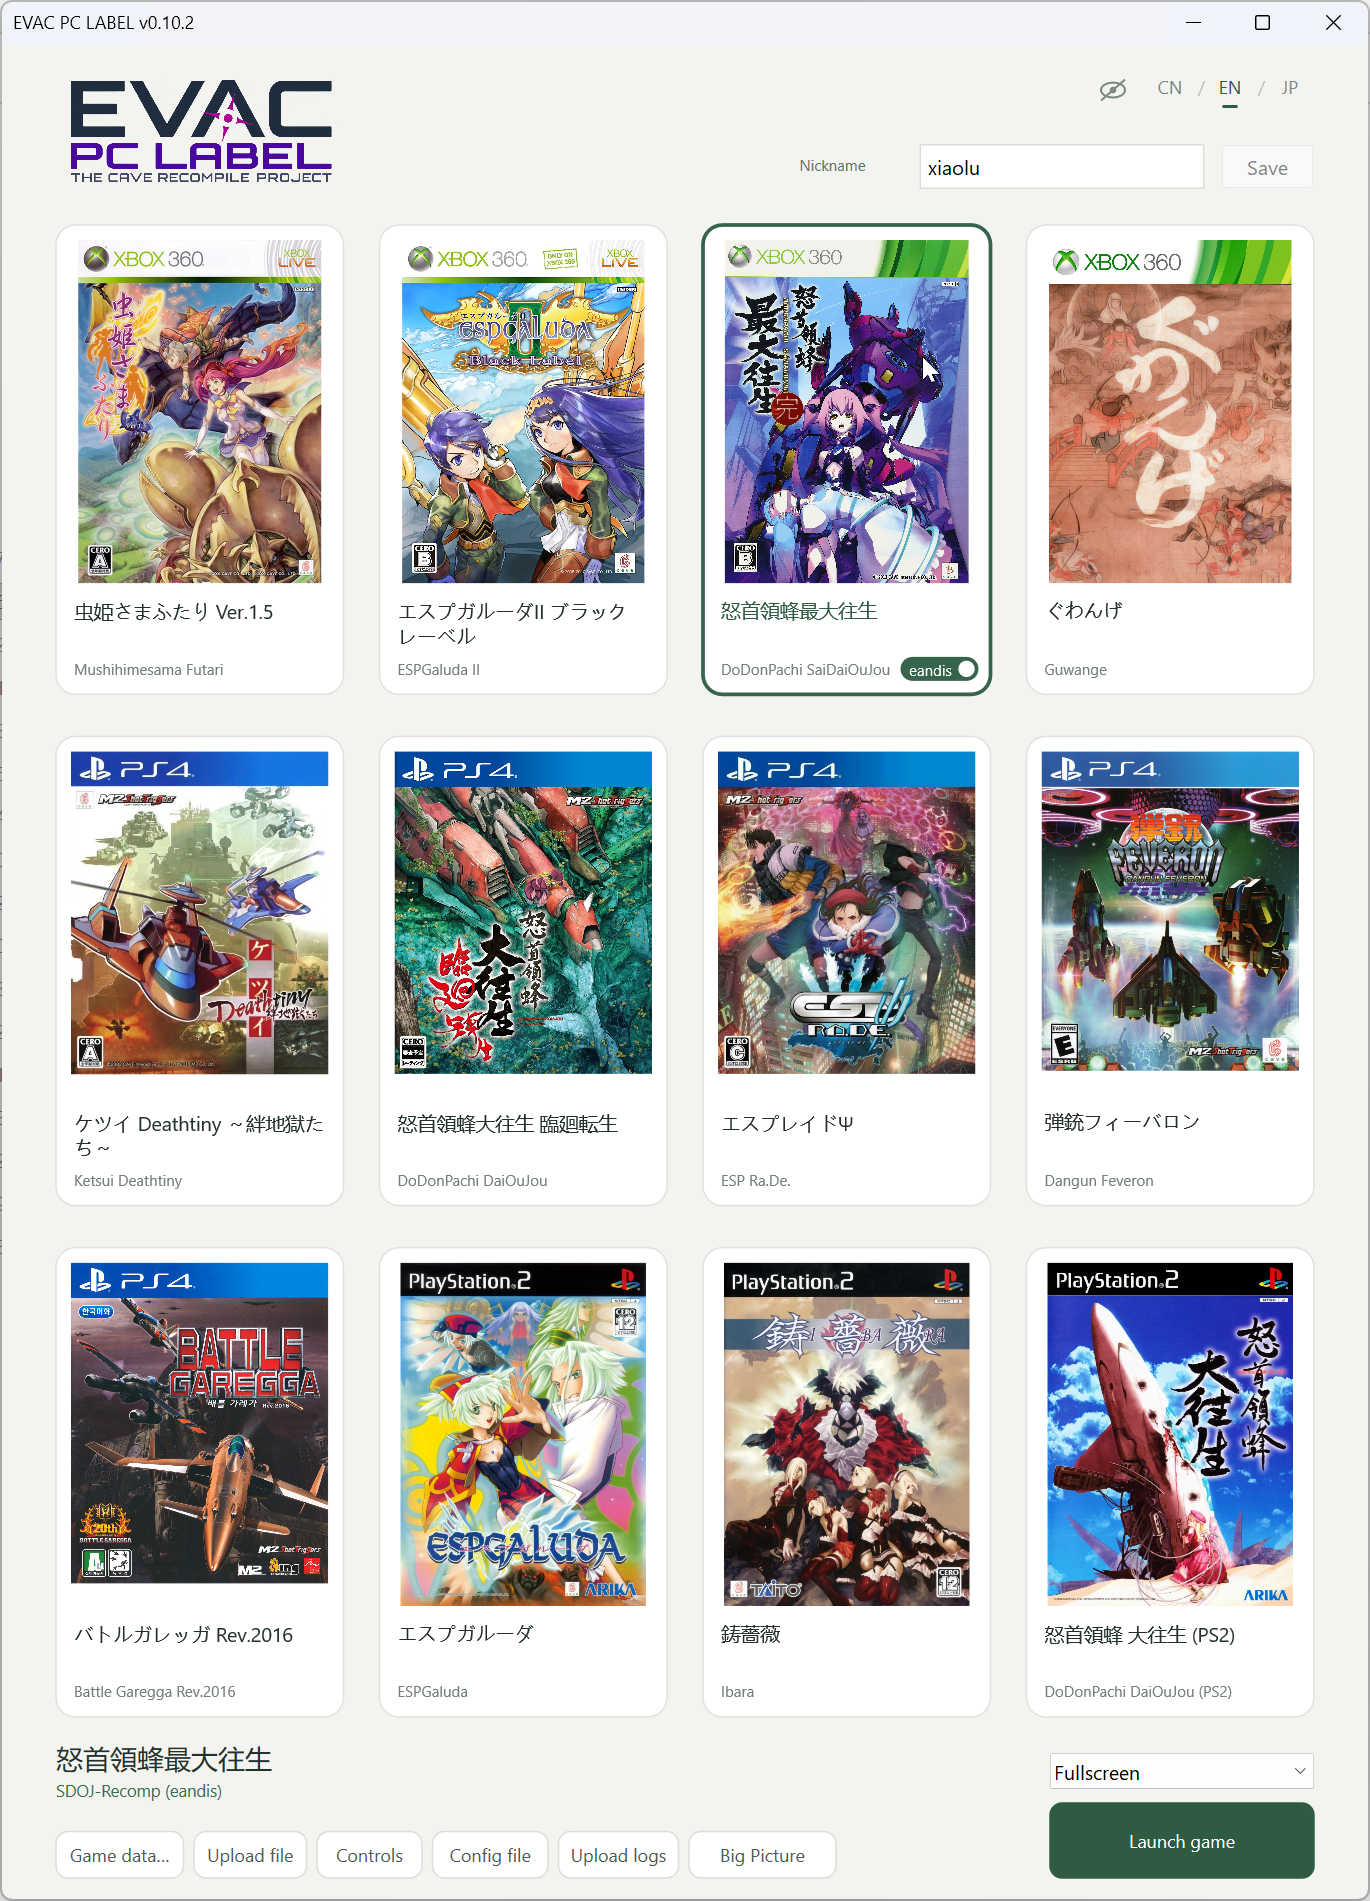
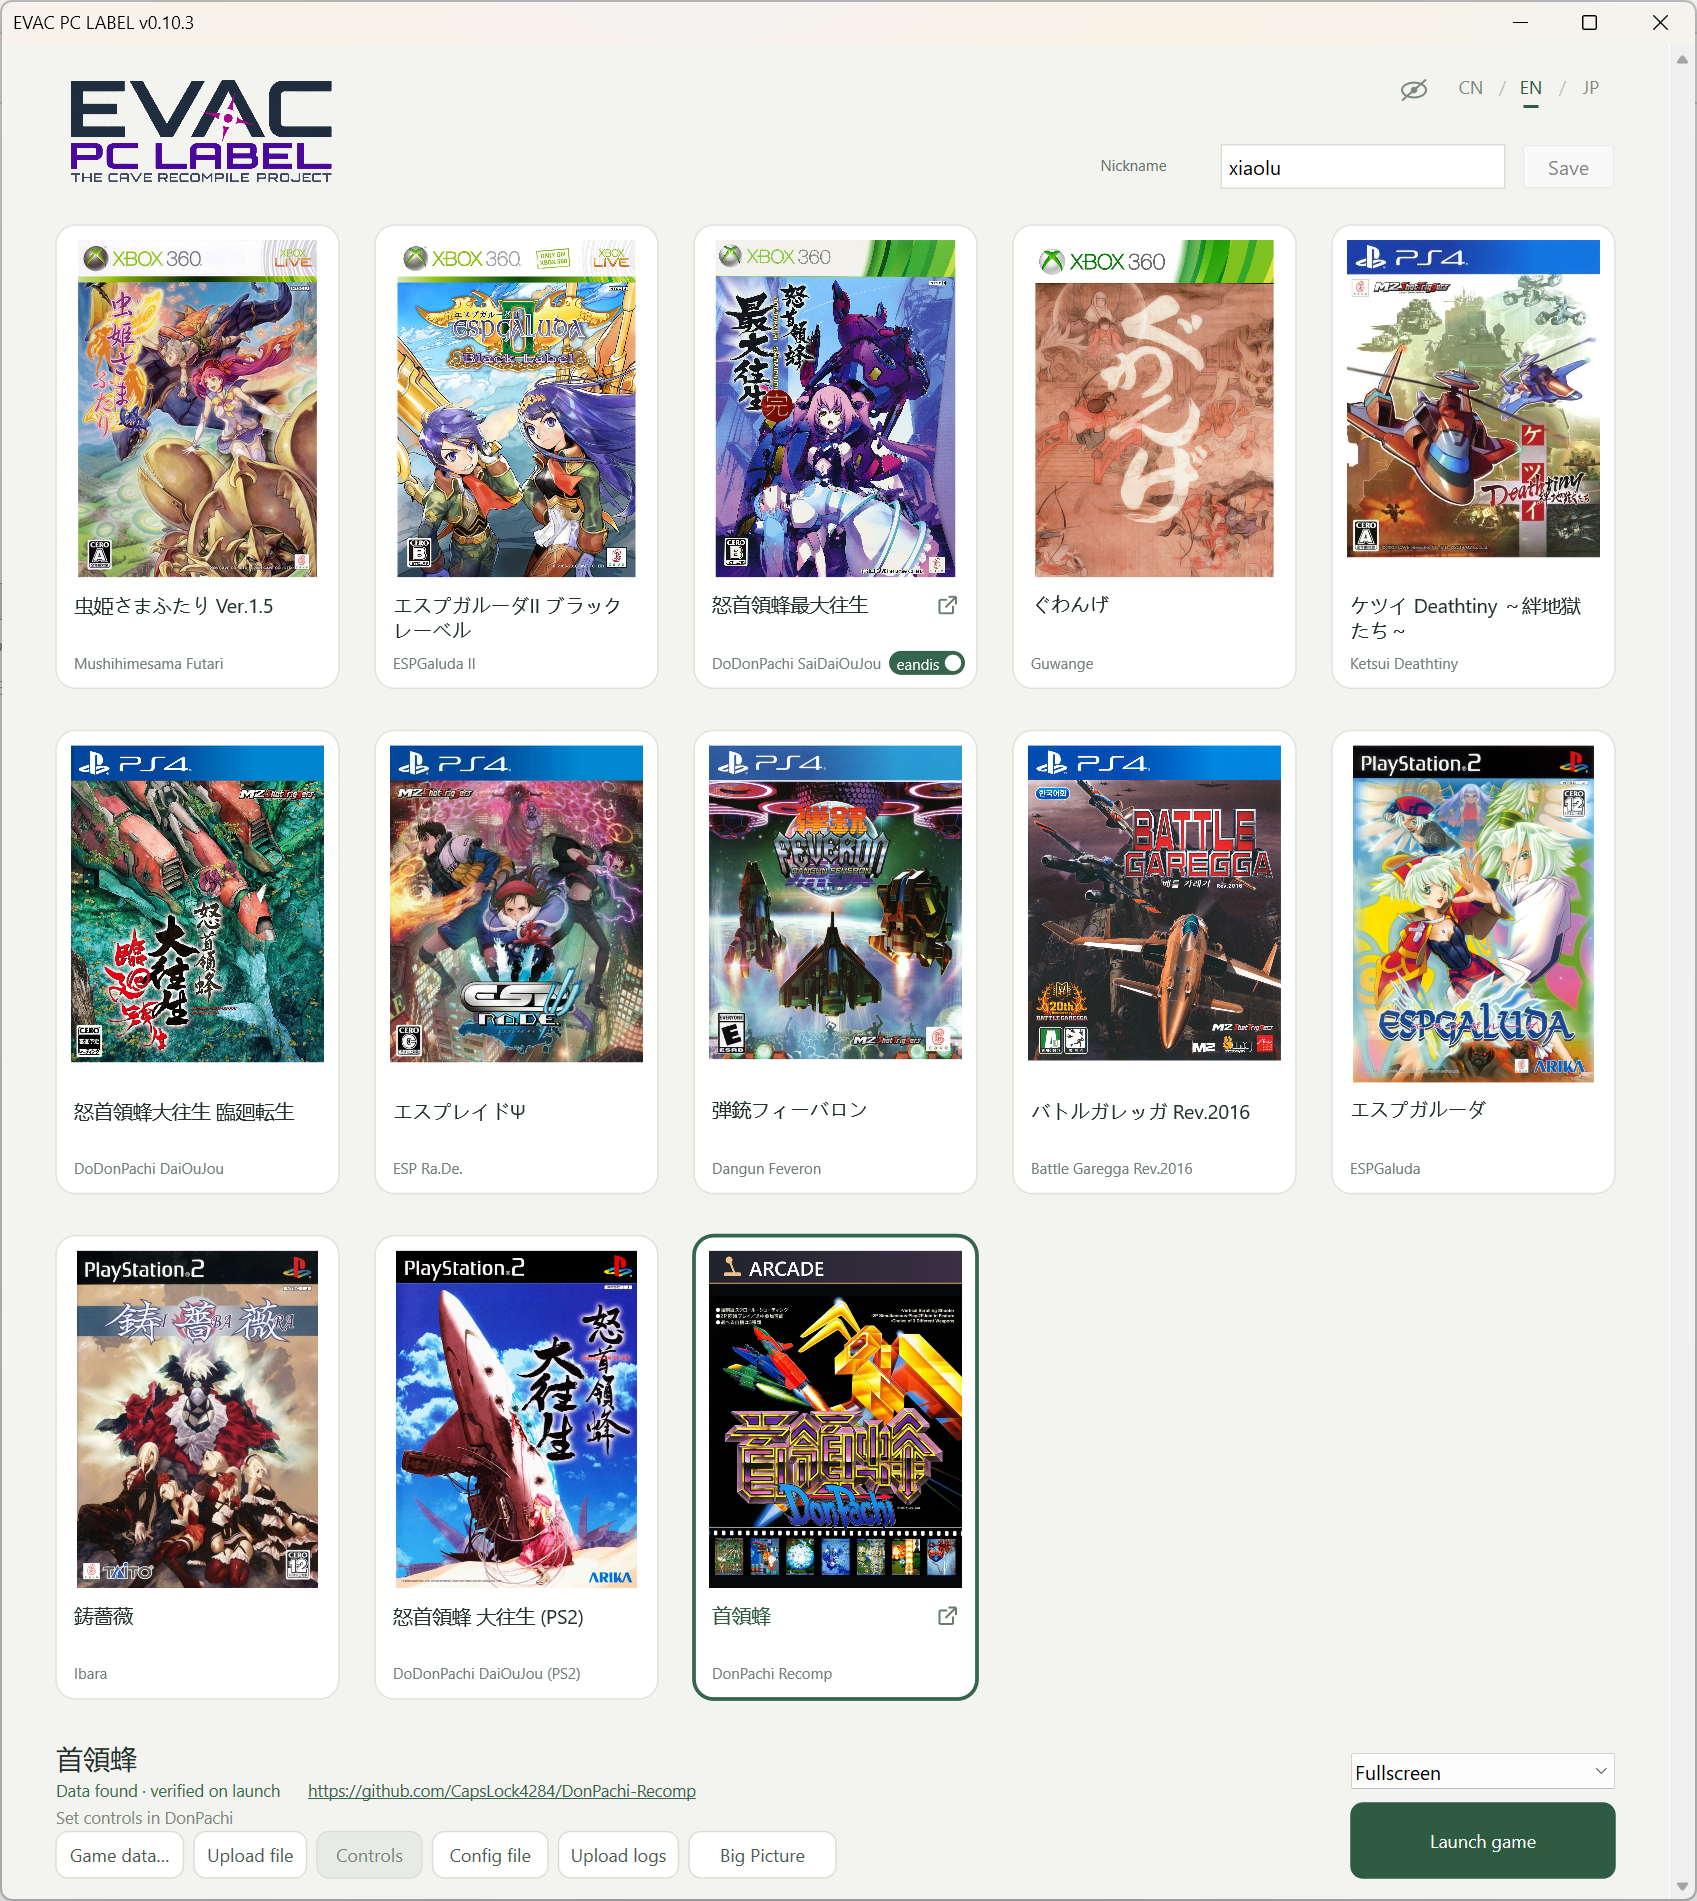
Fix portrait page navigation and refresh the v0.10.3 README

diff --git a/tests/launcher/ui_test.cpp b/tests/launcher/ui_test.cpp
@@ -1078,13 +1078,17 @@ void MainChecks() {
         Require(view.PageSize()==4 && first.right<right.left && first.bottom<below.top && first.left==below.left,
                 "Portrait Big Picture did not show a two-by-two grid");
         Require(view.Move(MenuKey::Up)==4 && view.Move(MenuKey::Down)==8 &&
-                view.Move(MenuKey::Left)==6 && view.Move(MenuKey::Right)==7,
-                "Portrait Big Picture did not navigate rows, columns, and the following page");
+                view.Move(MenuKey::Left)==3 && view.Move(MenuKey::Right)==7,
+                "Portrait Big Picture did not navigate rows, columns, and adjacent pages");
       } else
         Require(view.Move(MenuKey::Left)==5 && view.Move(MenuKey::Right)==7 &&
                 view.Move(MenuKey::Up)==6-view.Columns() && view.Move(MenuKey::Down)==6+view.Columns(),
                 "Horizontal Big Picture did not keep its existing navigation");
     }
+    const BigPictureLayout first_page{480,640,13,2}, before_last_page{480,640,13,11}, last_page{480,640,13,12};
+    Require(first_page.Move(MenuKey::Left)==2 && before_last_page.Move(MenuKey::Right)==12 &&
+            last_page.Move(MenuKey::Right)==12 && last_page.Move(MenuKey::Left)==9,
+            "Portrait paging must stop at the library ends and select an available game on an incomplete page");
     Write(ConfigPath(fixture.root),"[collection]\ncheck_for_updates=false\nbig_picture_layout=horizontal\n");
     Frame frame(fixture.root,"futari");
     RECT client{};GetClientRect(frame.app.hwnd,&client);
@@ -1096,6 +1100,12 @@ void MainChecks() {
     App::Window(frame.app.hwnd,WM_KEYDOWN,VK_RIGHT,0);
     Require(frame.app.VisiblePosition()==before+1,"Big Picture input did not move game focus");
     frame.app.big_picture_mode=cave::launcher::ReadBigPictureMode(Ini::Parse("[collection]\nbig_picture_layout=vertical\n"));
+    App::Window(frame.app.hwnd,WM_KEYDOWN,VK_RIGHT,0);
+    Require(frame.app.BigView().Page()==1 && frame.app.VisiblePosition()==before+4,
+            "Right from the right column did not select the same row on the next portrait page");
+    App::Window(frame.app.hwnd,WM_KEYDOWN,VK_LEFT,0);
+    Require(frame.app.BigView().Page()==0 && frame.app.VisiblePosition()==before+1,
+            "Left from the left column did not select the same row on the previous portrait page");
     App::Window(frame.app.hwnd,WM_KEYDOWN,VK_DOWN,0);
     Require(frame.app.BigView().PageSize()==4 && frame.app.VisiblePosition()==before+3,
             "Portrait Big Picture did not select the next row with Down");

diff --git a/launcher/big_picture.h b/launcher/big_picture.h
@@ -75,8 +75,15 @@ struct BigPictureLayout {
     size_t Move(MenuKey key) const {
         if (!count) return 0;
         const auto columns = Columns(), column = selected % columns;
-        if (key == MenuKey::Left && selected && (!Portrait() || column > 0)) return selected - 1;
-        if (key == MenuKey::Right && (!Portrait() || column + 1 < columns)) return std::min(selected + 1, count - 1);
+        const bool portrait = Portrait();
+        if (key == MenuKey::Left && selected) {
+            if (!portrait || column > 0) return selected - 1;
+            if (Page() > 0) return selected - PageSize() + columns - 1;
+        }
+        if (key == MenuKey::Right) {
+            if (!portrait || column + 1 < columns) return std::min(selected + 1, count - 1);
+            if (Last() < count) return std::min(selected - column + PageSize(), count - 1);
+        }
         if (key == MenuKey::Up && selected >= columns) return selected - columns;
         if (key == MenuKey::Down && (selected / columns + 1) * columns < count)
             return std::min(selected + columns, count - 1);

diff --git a/docs/CLI.en.md b/docs/CLI.en.md
@@ -24,7 +24,7 @@ Select **Big Picture** at the bottom of the launcher or press `F11` in the game 
 
 In either mode, use the left stick, D-pad, or arcade stick to select a game and press Confirm to launch it. In Big Picture, press Back to open the exit menu.
 
-Big Picture uses a 2×2 cover grid on portrait monitors. Move left or right to select a game, or move up or down with the direction keys or mouse wheel. Under `[collection]` in `user-data/config.ini`, set `big_picture_layout` to `vertical` or `horizontal` to choose a layout, or `auto` to follow the monitor.
+Big Picture uses a 2×2 cover grid on portrait monitors. Move left or right to select a game, or continue past either edge to turn the page. Use Up, Down, or the mouse wheel to move between rows. Under `[collection]` in `user-data/config.ini`, set `big_picture_layout` to `vertical` or `horizontal` to choose a layout, or `auto` to follow the monitor.
 
 While playing, press `Esc` or `Start + D-pad Up` to close the game and return to the launcher. When you launch from Big Picture, you return to the same game card.
 

diff --git a/docs/CLI.md b/docs/CLI.md
@@ -24,7 +24,7 @@
 
 普通窗口和大屏都可用手柄十字键、左摇杆或街机摇杆选游戏，按确认键启动。大屏里按返回键打开退出菜单。
 
-大屏在竖屏显示器上自动使用 2×2 封面网格。左右选择，上下或鼠标滚轮换行。在 `user-data/config.ini` 的 `[collection]` 中将 `big_picture_layout` 设为 `vertical` 或 `horizontal` 可以固定布局，`auto` 恢复自动识别。
+大屏在竖屏显示器上自动使用 2×2 封面网格。左右选择，移过边缘时翻页。上下或鼠标滚轮可换行。在 `user-data/config.ini` 的 `[collection]` 中将 `big_picture_layout` 设为 `vertical` 或 `horizontal` 可以固定布局，`auto` 恢复自动识别。
 
 在游戏里按 `Esc` 或 `Start + 十字键上` 即可退出并返回启动器。从大屏启动时，会回到原来选中的游戏。
 

diff --git a/README.en.md b/README.en.md
@@ -12,11 +12,11 @@ EVAC PC LABEL is an open-source project that ports classic shooters to PC with a
   <a href="https://github.com/zxl0714/EVAC-PC-LABEL/releases/latest"><strong>Download for Windows</strong></a> ·
   <a href="docs/GAME_DATA.en.md">Game data</a> ·
   <a href="docs/SETTINGS.en.md">Settings & controls</a> ·
-  <a href="docs/RELEASE_NOTES_v0.10.0.md#english">v0.10.0 release notes</a>
+  <a href="docs/RELEASE_NOTES_v0.10.3.md#english">v0.10.3 release notes</a>
 </p>
 
 <p align="center">
-  <a href="docs/images/launcher.png"><img src="docs/images/launcher.png" width="640" alt="EVAC PC LABEL launcher showing twelve games in a cover grid"></a>
+  <a href="docs/images/launcher.png"><img src="docs/images/launcher.png" width="640" alt="EVAC PC LABEL v0.10.3 launcher showing thirteen games in a cover grid"></a>
 </p>
 
 ## Latency and performance
